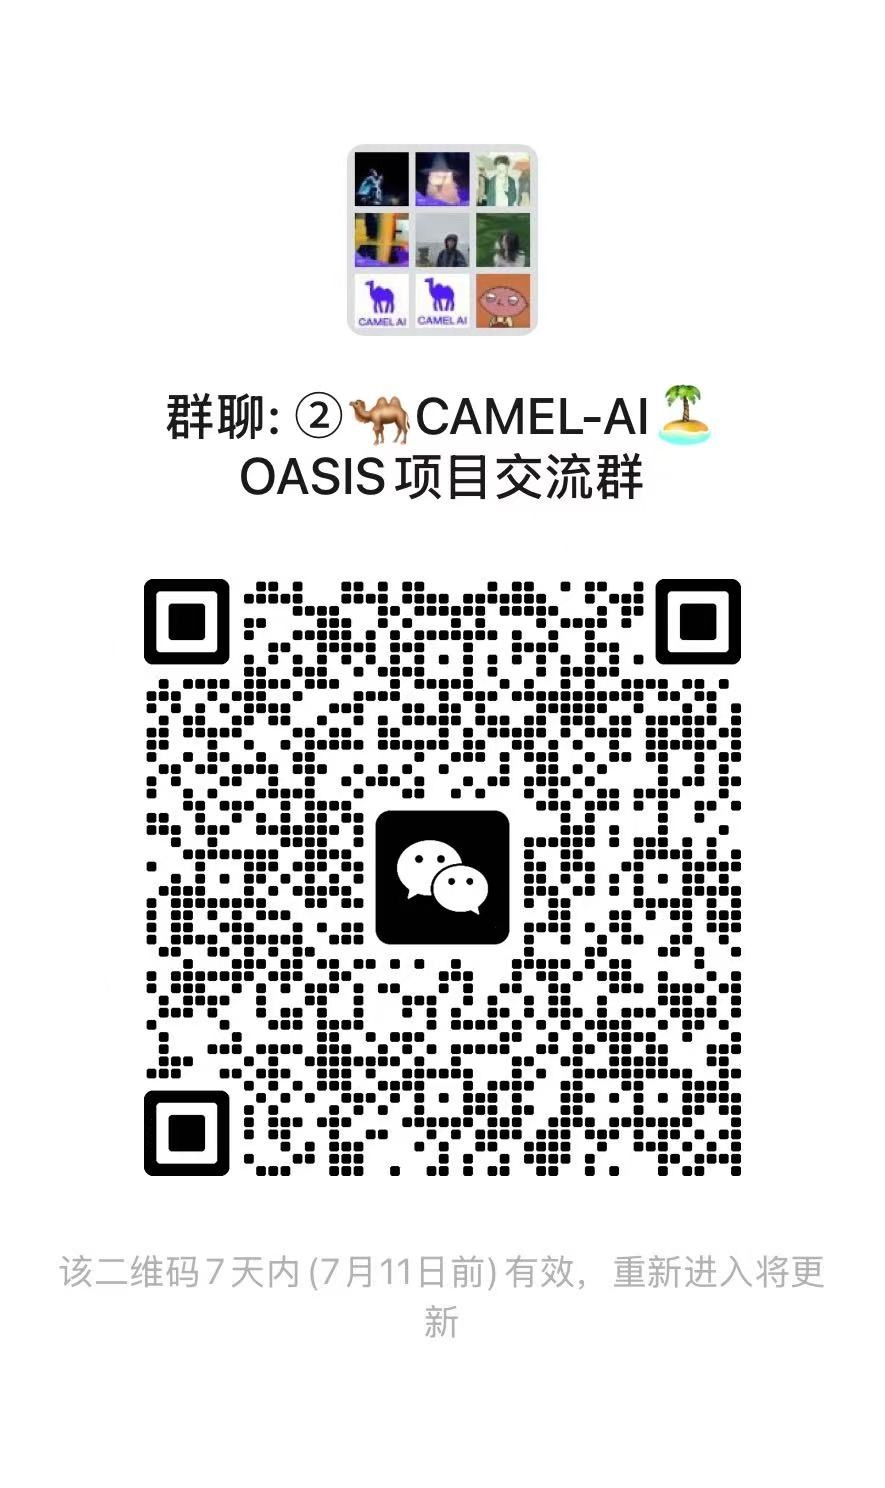
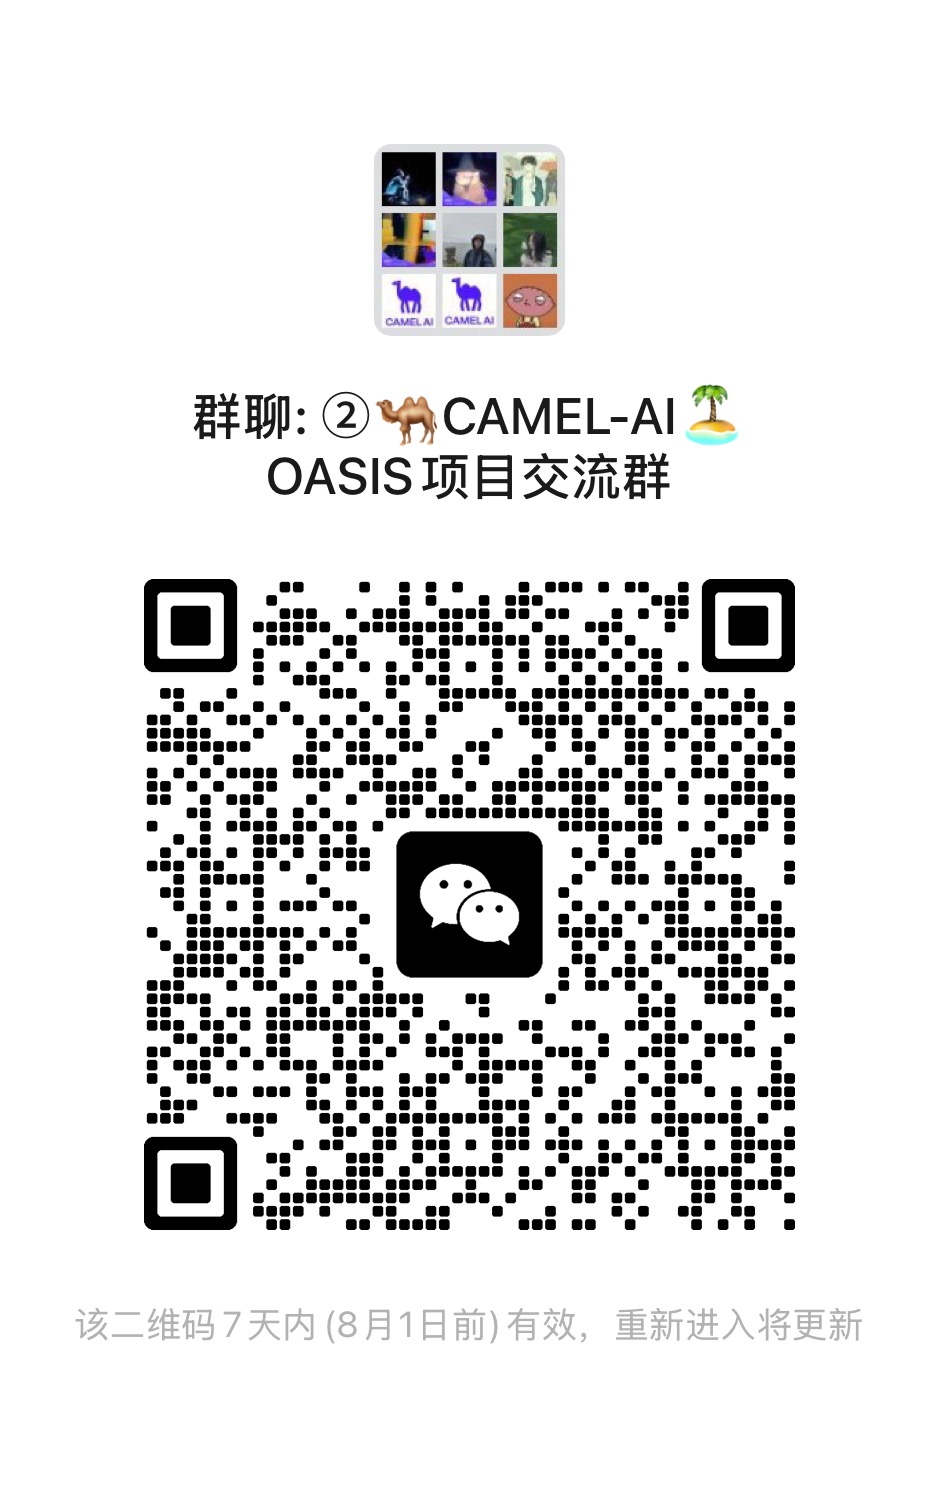
add followup reserach and update qr code

Changed region(s): [[0.061, 0.371, 0.9458, 0.8965], [0.1831, 0.0927, 0.8237, 0.3401]]

diff --git a/examples/hci_interaction_example.py b/examples/hci_interaction_example.py
@@ -1,0 +1,140 @@
+# =========== Copyright 2023 @ CAMEL-AI.org. All Rights Reserved. ===========
+# Licensed under the Apache License, Version 2.0 (the “License”);
+# you may not use this file except in compliance with the License.
+# You may obtain a copy of the License at
+#
+#     http://www.apache.org/licenses/LICENSE-2.0
+#
+# Unless required by applicable law or agreed to in writing, software
+# distributed under the License is distributed on an “AS IS” BASIS,
+# WITHOUT WARRANTIES OR CONDITIONS OF ANY KIND, either express or implied.
+# See the License for the specific language governing permissions and
+# limitations under the License.
+# =========== Copyright 2023 @ CAMEL-AI.org. All Rights Reserved. ===========
+import asyncio
+import logging
+import signal
+import sys
+import traceback
+
+from camel.models import ModelFactory
+from camel.types import ModelPlatformType, ModelType
+
+from oasis import ActionType, generate_reddit_agent_graph
+from oasis.social_platform.channel import Channel
+from oasis.social_platform.platform import Platform
+
+# 设置日志
+logging.basicConfig(level=logging.INFO,
+                    format='%(asctime)s - %(levelname)s - %(message)s')
+logger = logging.getLogger(__name__)
+
+
+# 输入超时处理
+class TimeoutExpired(Exception):
+    pass
+
+
+def input_with_timeout(prompt, timeout=60):
+
+    def handler(signum, frame):
+        raise TimeoutExpired()
+
+    signal.signal(signal.SIGALRM, handler)
+    signal.alarm(timeout)
+    try:
+        value = input(prompt)
+        signal.alarm(0)
+        return value
+    except TimeoutExpired:
+        print(f"\n[Error] {timeout}秒内未输入，程序自动退出。")
+        sys.exit(1)
+    except Exception as e:
+        signal.alarm(0)
+        raise e
+
+
+async def main():
+    # try:
+    print("[INFO] 设置 OpenAI API Key...")
+
+    print("[INFO] 初始化模型...")
+    openai_model = ModelFactory.create(
+        model_platform=ModelPlatformType.OPENAI,
+        model_type=ModelType.GPT_4O_MINI,
+    )
+
+    print("[INFO] 初始化通道和平台...")
+    channel = Channel()
+    platform = Platform(
+        db_path="./reddit_simulation.db",  # 使用现有数据库
+        channel=channel,
+    )
+    platform_task = asyncio.create_task(platform.running())
+
+    # 定义可用的动作
+    available_actions = [
+        ActionType.LIKE_POST,
+        ActionType.DISLIKE_POST,
+        ActionType.CREATE_POST,
+        ActionType.CREATE_COMMENT,
+        ActionType.LIKE_COMMENT,
+        ActionType.DISLIKE_COMMENT,
+        ActionType.SEARCH_POSTS,
+        ActionType.SEARCH_USER,
+        ActionType.TREND,
+        ActionType.REFRESH,
+        ActionType.DO_NOTHING,
+        ActionType.FOLLOW,
+        ActionType.MUTE,
+    ]
+
+    print("[INFO] 生成智能体图谱...")
+    try:
+        agent_graph = await generate_reddit_agent_graph(
+            profile_path="./data/reddit/user_data_36.json",
+            model=openai_model,
+            available_actions=available_actions,
+            channel=channel,
+        )
+    except Exception as e:
+        logger.error(f"[ERROR] 生成智能体图谱失败: {e}")
+        logger.error(traceback.format_exc())
+        return
+
+    print("[INFO] 获取智能体实例...")
+    try:
+        agent = agent_graph.get_agent(0)
+    except Exception as e:
+        logger.error(f"[ERROR] 获取智能体失败: {e}")
+        logger.error(traceback.format_exc())
+        return
+
+    print("[INFO] 开始人机交互...")
+
+    # try:
+    result = await agent.perform_action_by_hci()
+    if result is None:
+        logger.error("[ERROR] 操作执行失败，返回值为 None")
+        return
+    print("[INFO] 操作已完成，结果如下：")
+    print(result)
+    # except Exception as e:
+    #     logger.error(f"[ERROR] 智能体交互过程中发生异常: {e}")
+    #     logger.error(traceback.format_exc())
+
+    # except Exception as e:
+    #     logger.error(f"[FATAL] 程序运行异常: {e}")
+    #     logger.error(traceback.format_exc())
+    # finally:
+    #     # 发送退出消息给平台以停止其运行
+    await channel.write_to_receive_queue((0, None, ActionType.EXIT.value))
+    await platform_task
+
+
+if __name__ == "__main__":
+    try:
+        asyncio.run(main())
+    except Exception as e:
+        logger.error(f"[FATAL] 程序运行异常: {e}")
+        logger.error(traceback.format_exc())

diff --git a/README.md b/README.md
@@ -263,6 +263,13 @@ To discover how to create profiles for large-scale users, as well as how to visu
 - OASIS initially released on arXiv - 📆 November 19, 2024
 - OASIS GitHub repository initially launched - 📆 November 19, 2024
 
+## 🔎 Follow-up Research
+
+- [MultiAgent4Collusion](https://github.com/renqibing/MultiAgent4Collusion): multi-agent collusion simulation framework in social systems
+- More to come...
+
+If your research is based on OASIS, we'd be happy to feature your work here—feel free to reach out or submit a pull request to add it to the [README](https://github.com/camel-ai/oasis/blob/main/README.md)!
+
 ## 🥂 Contributing to OASIS🏝
 
 > We greatly appreciate your interest in contributing to our open-source initiative. To ensure a smooth collaboration and the success of contributions, we adhere to a set of contributing guidelines similar to those established by CAMEL. For a comprehensive understanding of the steps involved in contributing to our project, please refer to the OASIS [contributing guidelines](https://github.com/camel-ai/oasis/blob/master/CONTRIBUTING.md). 🤝🚀
